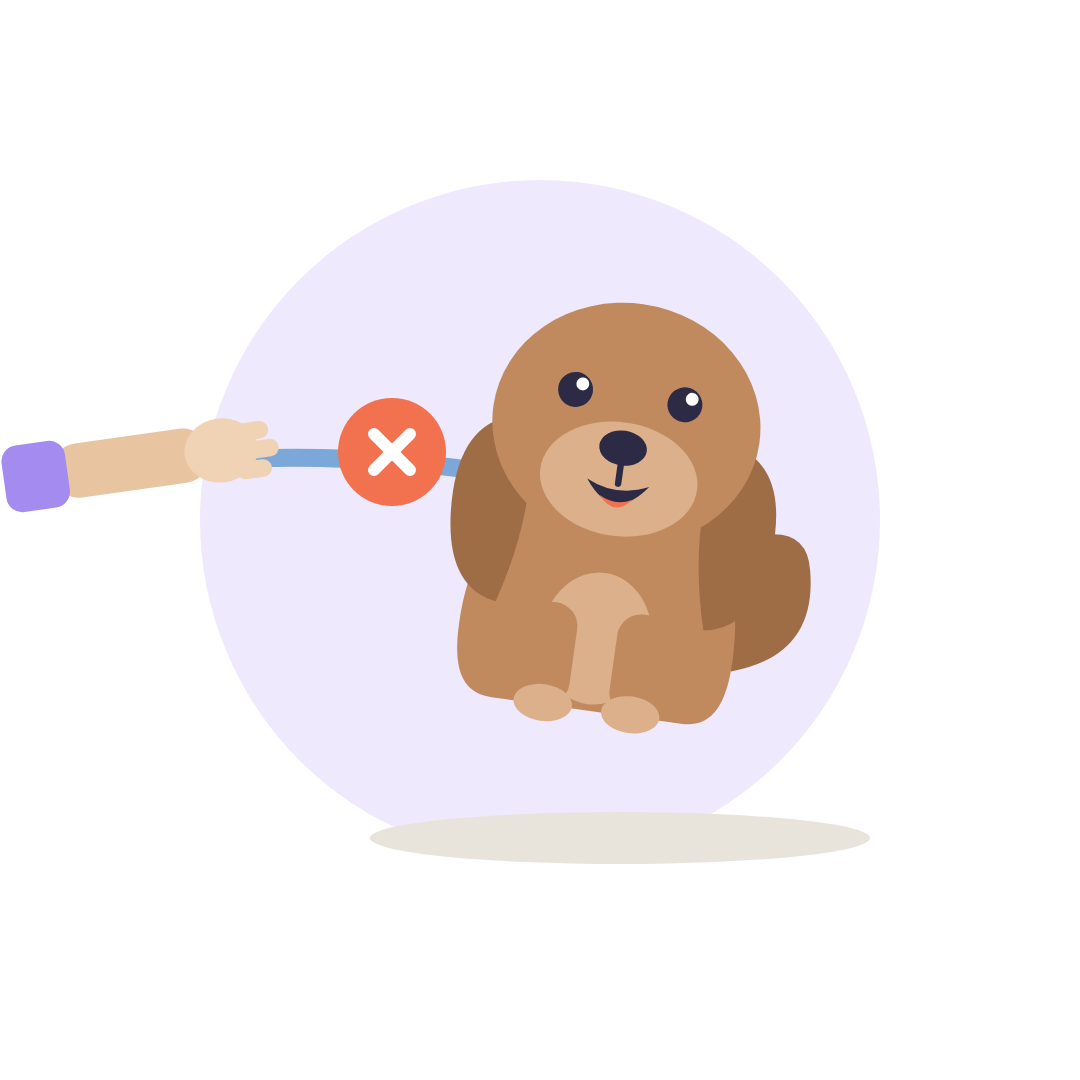
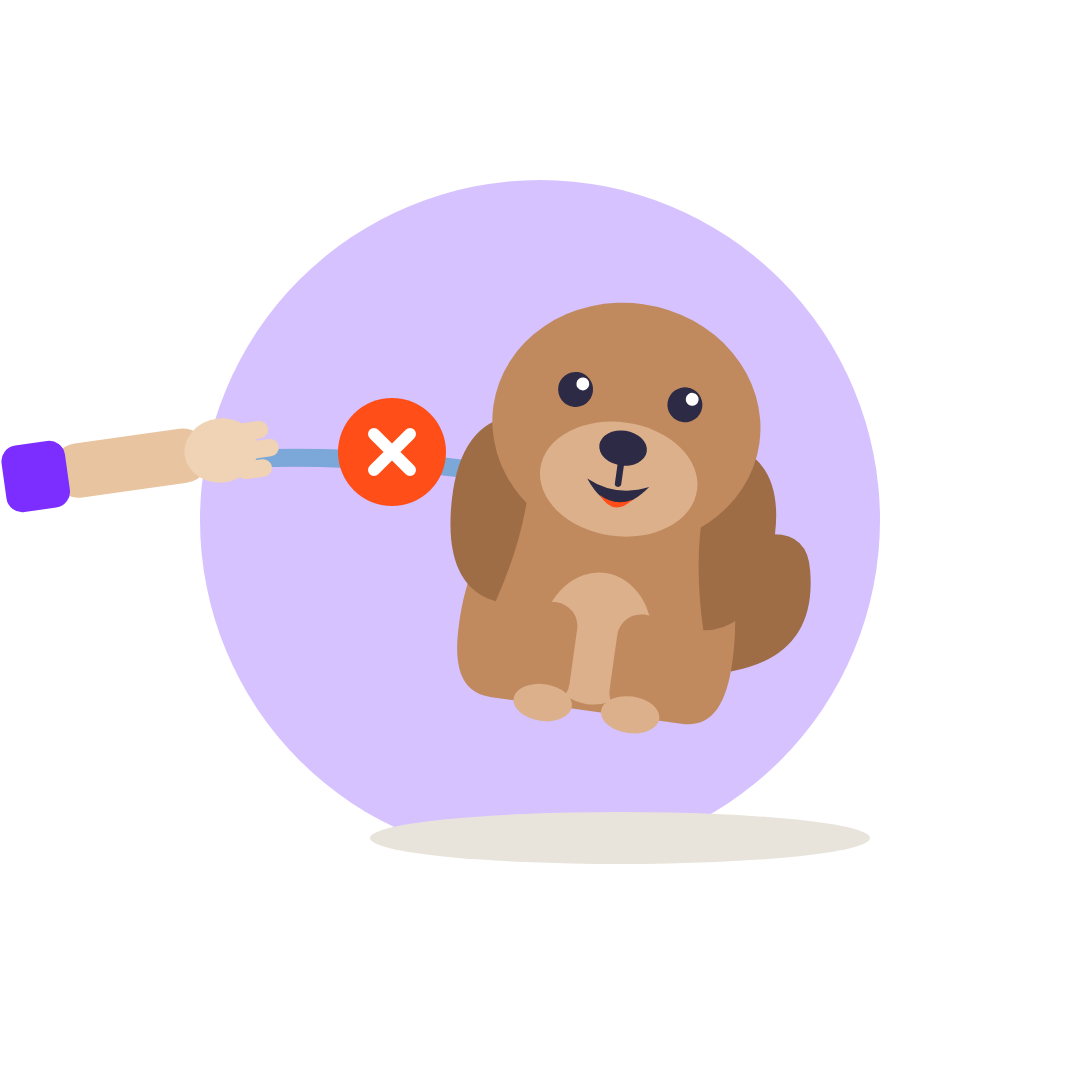
Fix the funnel trapping visitors on the plan-building screen
The building screen filled all four bars to 100% and then stayed there
forever, one step before the offer. Its interval was never cleared, so
past completion the navigation effect re-ran every 40ms and each
router.push cancelled the one before it. The interval now stops at the
end and the push is guarded to fire exactly once.

Because this sits directly in the revenue path, it also gets a manual
way out: if the route has not taken over 2.5s after completion, a
Continue button appears. Whatever else might stall here, nobody is
stuck.

The discount step becomes a real scratch card. It was four cards to pick
from, which is a choice with one outcome and reads as a trick. Now a
single foil card is scratched with finger or mouse, on canvas, and
clears itself once about 40% is uncovered to reveal the 60% underneath.
Copy changes from "pick a discount" to "scratch the card" in all three
languages.

Also finishes the saturation pass: the pale lavender surfaces that
remained — emoji tiles, the progress track, the section chip, the logo
mark and the language switcher — were what still read washed out. Tiles
now cycle six full-strength accents, the chip is solid violet on white,
and the illustrations' background circle is deepened to match.

Verified by walking the whole Spanish funnel: landing through quiz,
prediction, building, plan, e-mail, scratch and paywall, with no console
errors and no failed requests. Building now reaches the plan in 8.1s.
[…]

Changed region(s): [[0.1833, 0.1528, 0.825, 0.7639], [0.0, 0.3972, 0.0611, 0.4889], [0.55, 0.4583, 0.5806, 0.4889]]

diff --git a/src/components/ScratchCard.tsx b/src/components/ScratchCard.tsx
@@ -1,0 +1,130 @@
+"use client";
+
+import { useCallback, useEffect, useRef, useState } from "react";
+
+type Props = {
+  /** Percentage to reveal underneath. */
+  percent: number;
+  offLabel: string;
+  hint: string;
+  onRevealed: () => void;
+};
+
+/** Share of the foil that has to be scratched before it clears itself. */
+const REVEAL_AT = 0.42;
+
+export function ScratchCard({ percent, offLabel, hint, onRevealed }: Props) {
+  const canvasRef = useRef<HTMLCanvasElement>(null);
+  const drawing = useRef(false);
+  const revealed = useRef(false);
+  const [done, setDone] = useState(false);
+
+  const paintFoil = useCallback((canvas: HTMLCanvasElement) => {
+    const ctx = canvas.getContext("2d");
+    if (!ctx) return;
+    const { width: w, height: h } = canvas;
+
+    const gold = ctx.createLinearGradient(0, 0, w, h);
+    gold.addColorStop(0, "#FFE47A");
+    gold.addColorStop(0.5, "#FFC419");
+    gold.addColorStop(1, "#EBAA00");
+    ctx.fillStyle = gold;
+    ctx.fillRect(0, 0, w, h);
+
+    // A little sheen so the surface reads as foil worth scratching.
+    ctx.strokeStyle = "rgba(255,255,255,0.35)";
+    ctx.lineWidth = Math.max(8, w * 0.04);
+    for (let i = -h; i < w + h; i += Math.max(40, w * 0.18)) {
+      ctx.beginPath();
+      ctx.moveTo(i, 0);
+      ctx.lineTo(i + h, h);
+      ctx.stroke();
+    }
+  }, []);
+
+  useEffect(() => {
+    const canvas = canvasRef.current;
+    if (!canvas) return;
+    const rect = canvas.getBoundingClientRect();
+    const dpr = Math.min(window.devicePixelRatio || 1, 2);
+    canvas.width = Math.round(rect.width * dpr);
+    canvas.height = Math.round(rect.height * dpr);
+    paintFoil(canvas);
+  }, [paintFoil]);
+
+  const scratchedShare = (canvas: HTMLCanvasElement) => {
+    const ctx = canvas.getContext("2d", { willReadFrequently: true });
+    if (!ctx) return 0;
+    const { data } = ctx.getImageData(0, 0, canvas.width, canvas.height);
+    let clear = 0;
+    // Every 16th pixel is plenty to estimate coverage and keeps this cheap.
+    for (let i = 3; i < data.length; i += 4 * 16) {
+      if (data[i] === 0) clear += 1;
+    }
+    return clear / (data.length / (4 * 16));
+  };
+
+  const finish = useCallback(() => {
+    if (revealed.current) return;
+    revealed.current = true;
+    setDone(true);
+    onRevealed();
+  }, [onRevealed]);
+
+  const scratch = (event: React.PointerEvent<HTMLCanvasElement>) => {
+    if (!drawing.current || revealed.current) return;
+    const canvas = canvasRef.current;
+    if (!canvas) return;
+    const ctx = canvas.getContext("2d");
+    if (!ctx) return;
+
+    const rect = canvas.getBoundingClientRect();
+    const scale = canvas.width / rect.width;
+    const x = (event.clientX - rect.left) * scale;
+    const y = (event.clientY - rect.top) * scale;
+
+    ctx.globalCompositeOperation = "destination-out";
+    ctx.beginPath();
+    ctx.arc(x, y, canvas.width * 0.11, 0, Math.PI * 2);
+    ctx.fill();
+
+    if (scratchedShare(canvas) > REVEAL_AT) finish();
+  };
+
+  return (
+    <div className="mx-auto w-full max-w-[260px]">
+      <div className="relative aspect-[3/4] overflow-hidden rounded-xl2 border-4 border-gold-500 shadow-card">
+        {/* prize underneath */}
+        <div className="absolute inset-0 flex flex-col items-center justify-center bg-gradient-to-br from-violet-500 to-violet-700">
+          <span className="text-[54px] font-black leading-none text-white drop-shadow-[0_3px_0_rgba(0,0,0,0.18)]">
+            {percent}%
+          </span>
+          <span className="mt-2 rounded-md bg-coral-500 px-3 py-1 text-[13px] font-bold uppercase tracking-wide text-white">
+            {offLabel}
+          </span>
+        </div>
+
+        <canvas
+          ref={canvasRef}
+          onPointerDown={(e) => {
+            drawing.current = true;
+            e.currentTarget.setPointerCapture(e.pointerId);
+            scratch(e);
+          }}
+          onPointerMove={scratch}
+          onPointerUp={() => (drawing.current = false)}
+          onPointerLeave={() => (drawing.current = false)}
+          className={`absolute inset-0 h-full w-full touch-none transition-opacity duration-500 ${
+            done ? "pointer-events-none opacity-0" : "cursor-grab active:cursor-grabbing"
+          }`}
+        />
+      </div>
+
+      {!done && (
+        <p className="mt-4 animate-pulse-soft text-center text-[14px] font-medium text-ink-soft">
+          👆 {hint}
+        </p>
+      )}
+    </div>
+  );
+}

diff --git a/src/app/[locale]/building/Building.tsx b/src/app/[locale]/building/Building.tsx
@@ -1,8 +1,9 @@
 "use client";
 
 import { useRouter } from "next/navigation";
-import { useEffect, useState } from "react";
+import { useEffect, useRef, useState } from "react";
 import { Shell } from "@/components/Shell";
+import { Cta, CtaDock } from "@/components/Cta";
 import { fill, type Dict } from "@/content";
 import { useFunnel } from "@/lib/store";
 import type { Locale } from "@/lib/types";
@@ -15,20 +16,35 @@ export function Building({ locale, dict }: { locale: Locale; dict: Dict }) {
   const router = useRouter();
   const { answers } = useFunnel();
   const [elapsed, setElapsed] = useState(0);
+  const [stalled, setStalled] = useState(false);
+  const navigated = useRef(false);
 
   const tasks = dict.building.tasks;
   const totalMs = tasks.length * TASK_MS;
 
   useEffect(() => {
-    const timer = window.setInterval(
-      () => setElapsed((value) => value + TICK_MS),
-      TICK_MS,
-    );
+    // The interval has to stop at the end. Left running, it kept ticking past
+    // completion and re-fired the navigation below every frame, each push
+    // cancelling the last one, and the visitor sat on four full bars forever.
+    const timer = window.setInterval(() => {
+      setElapsed((value) => {
+        const next = value + TICK_MS;
+        if (next >= totalMs) window.clearInterval(timer);
+        return Math.min(next, totalMs);
+      });
+    }, TICK_MS);
     return () => window.clearInterval(timer);
-  }, []);
+  }, [totalMs]);
 
   useEffect(() => {
-    if (elapsed >= totalMs) router.push(`/${locale}/plan`);
+    if (elapsed < totalMs || navigated.current) return;
+    navigated.current = true;
+    router.push(`/${locale}/plan`);
+
+    // Last resort: if the route has not taken over shortly after, offer a
+    // manual way on. Nobody should be trapped one step from the offer.
+    const escape = window.setTimeout(() => setStalled(true), 2500);
+    return () => window.clearTimeout(escape);
   }, [elapsed, totalMs, router, locale]);
 
   const vars = {
@@ -70,6 +86,14 @@ export function Building({ locale, dict }: { locale: Locale; dict: Dict }) {
           );
         })}
       </ul>
+
+      {stalled && (
+        <CtaDock>
+          <Cta onClick={() => router.push(`/${locale}/plan`)}>
+            {dict.common.continue}
+          </Cta>
+        </CtaDock>
+      )}
 
       <figure className="mt-10 rounded-xl2 bg-cream p-4">
         <figcaption className="text-[13px] font-semibold text-violet-600">

diff --git a/src/app/[locale]/discount/Discount.tsx b/src/app/[locale]/discount/Discount.tsx
@@ -4,7 +4,7 @@ import { useRouter } from "next/navigation";
 import { useState } from "react";
 import { Shell } from "@/components/Shell";
 import { Cta, CtaDock } from "@/components/Cta";
-import { ScratchCards } from "@/components/ScratchCards";
+import { ScratchCard } from "@/components/ScratchCard";
 import { fill, type Dict } from "@/content";
 import { DISCOUNT } from "@/lib/config";
 import { useFunnel } from "@/lib/store";
@@ -52,17 +52,18 @@ export function Discount({ locale, dict }: { locale: Locale; dict: Dict }) {
       <h2 className="headline mt-4 text-center text-[22px]">
         {dict.discount.headline}
       </h2>
-
-      <div className="my-8">
-        <ScratchCards
-          offLabel={dict.discount.off}
-          onReveal={() => setWon(true)}
-        />
-      </div>
-
-      <p className="text-center text-[15px] leading-relaxed text-ink-soft">
+      <p className="mt-3 text-center text-[15px] leading-relaxed text-ink-soft">
         {fill(dict.discount.subhead, { dog })}
       </p>
+
+      <div className="my-8">
+        <ScratchCard
+          percent={Math.round(DISCOUNT * 100)}
+          offLabel={dict.discount.off}
+          hint={dict.discount.scratchHint}
+          onRevealed={() => window.setTimeout(() => setWon(true), 900)}
+        />
+      </div>
 
       <CtaDock>
         <Cta disabled>{dict.discount.cta}</Cta>

diff --git a/src/components/Shell.tsx b/src/components/Shell.tsx
@@ -50,14 +50,14 @@ export function Shell({
           <div className="px-5 pb-3">
             {eyebrow && (
               <p className="mb-2 text-center">
-                <span className="inline-block rounded-pill bg-violet-100 px-3 py-1 text-[11px] font-bold uppercase tracking-[0.12em] text-violet-700">
+                <span className="inline-block rounded-pill bg-violet-600 px-3.5 py-1 text-[11px] font-bold uppercase tracking-[0.12em] text-white shadow-[0_3px_10px_rgba(124,45,255,0.35)]">
                   {eyebrow}
                 </span>
               </p>
             )}
-            <div className="h-2 w-full overflow-hidden rounded-pill bg-violet-100">
+            <div className="h-2.5 w-full overflow-hidden rounded-pill bg-line">
               <div
-                className="h-full rounded-pill bg-gradient-to-r from-violet-500 via-violet-400 to-coral-500 transition-[width] duration-500 ease-out"
+                className="h-full rounded-pill bg-gradient-to-r from-violet-600 via-pink-500 to-coral-500 shadow-[0_0_12px_rgba(255,45,135,0.45)] transition-[width] duration-500 ease-out"
                 style={{ width: `${Math.min(100, Math.max(5, progress * 100))}%` }}
               />
             </div>

diff --git a/src/components/OptionCard.tsx b/src/components/OptionCard.tsx
@@ -1,11 +1,14 @@
 "use client";
 
+/* Full-strength accents. Pastel tiles were what made the list read washed
+   out, however saturated the button itself was. */
 const TONES = [
-  "bg-violet-100",
-  "bg-coral-100",
-  "bg-teal-100",
-  "bg-sun/40",
-  "bg-gold-300/45",
+  "bg-violet-500",
+  "bg-coral-500",
+  "bg-teal-500",
+  "bg-pink-500",
+  "bg-gold-500",
+  "bg-sky-500",
 ];
 
 type Props = {
@@ -58,7 +61,7 @@ export function OptionCard({
         <span
           aria-hidden="true"
           className={`flex h-10 w-10 shrink-0 items-center justify-center rounded-xl text-[20px] leading-none transition ${
-            selected ? "bg-white/25" : TONES[tone % TONES.length]
+            selected ? "bg-white/30" : TONES[tone % TONES.length]
           }`}
         >
           {emoji}

diff --git a/src/content/pt.ts b/src/content/pt.ts
@@ -271,9 +271,10 @@ export const pt: Dict = {
   },
   discount: {
     headline: "Economize no seu plano personalizado",
-    subhead: "Escolha um desconto de boas-vindas para o plano de treino de {dog}",
+    subhead: "Um desconto de boas-vindas para o plano de treino de {dog}",
     cta: "Pegar o meu desconto",
     off: "off",
+    scratchHint: "Raspe o cartão com o dedo",
     wonHeadline: "Você ganhou 60% de desconto",
     wonSubhead: "O prêmio principal é seu!",
     wonCta: "Continuar",

diff --git a/src/components/Logo.tsx b/src/components/Logo.tsx
@@ -4,7 +4,7 @@ export function Logo({ compact = false }: { compact?: boolean }) {
   return (
     <span className="inline-flex items-center gap-2">
       <svg viewBox="0 0 32 32" className="h-7 w-7" aria-hidden="true">
-        <rect width="32" height="32" rx="10" fill="#A48BF0" />
+        <rect width="32" height="32" rx="10" fill="#7C2DFF" />
         <g fill="#FFFFFF">
           <ellipse cx="11.4" cy="12.2" rx="2.5" ry="3.2" />
           <ellipse cx="20.6" cy="12.2" rx="2.5" ry="3.2" />

diff --git a/src/content/es.ts b/src/content/es.ts
@@ -268,9 +268,10 @@ export const es: Dict = {
   },
   discount: {
     headline: "Ahorra en tu plan personalizado",
-    subhead: "Elige un descuento de bienvenida para el plan de {dog}",
+    subhead: "Un descuento de bienvenida para el plan de {dog}",
     cta: "Quiero mi descuento",
     off: "off",
+    scratchHint: "Raspa la tarjeta con el dedo",
     wonHeadline: "Ganaste un 60% de descuento",
     wonSubhead: "¡El premio mayor es tuyo!",
     wonCta: "Continuar",

diff --git a/src/content/en.ts b/src/content/en.ts
@@ -268,9 +268,10 @@ export const en: Dict = {
   },
   discount: {
     headline: "Save on your personalised plan",
-    subhead: "Pick a welcome discount for {dog}'s training plan",
+    subhead: "A welcome discount for {dog}'s training plan",
     cta: "Get my discount",
     off: "off",
+    scratchHint: "Scratch the card with your finger",
     wonHeadline: "You got 60% off",
     wonSubhead: "The top prize is yours!",
     wonCta: "Continue",

diff --git a/tailwind.config.ts b/tailwind.config.ts
@@ -25,6 +25,8 @@ const config: Config = {
         coral: { 100: "#FFE3D6", 300: "#FF9264", 500: "#FF4E17", 600: "#EA3C05" },
         teal: { 100: "#C8FBEE", 500: "#00D9A6", 600: "#00B98C" },
         gold: { 300: "#FFE47A", 500: "#FFC419", 600: "#EBAA00" },
+        pink: { 100: "#FFD9EC", 500: "#FF2D87" },
+        sky: { 100: "#D2ECFF", 500: "#0FA3FF" },
         sun: "#FFE81F",
         line: "#E9E4DB",
       },

diff --git a/src/components/LocaleSwitcher.tsx b/src/components/LocaleSwitcher.tsx
@@ -23,7 +23,7 @@ export function LocaleSwitcher({ current }: { current: Locale }) {
           onClick={() => switchTo(locale)}
           className={`rounded-pill px-3 py-1 text-[12px] font-medium transition ${
             locale === current
-              ? "bg-violet-100 text-violet-700"
+              ? "bg-violet-600 text-white"
               : "text-ink-faint hover:text-ink-soft"
           }`}
         >

diff --git a/src/content/dict.ts b/src/content/dict.ts
@@ -63,6 +63,7 @@ export type Dict = {
     subhead: string;
     cta: string;
     off: string;
+    scratchHint: string;
     wonHeadline: string;
     wonSubhead: string;
     wonCta: string;
